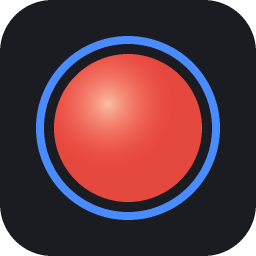
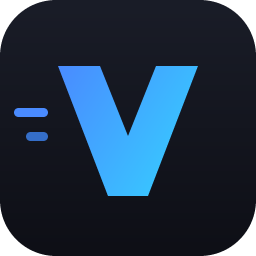
Rebrand RecScreen to Velocity Studio 1.0.0
New name, app ID, installer name, icon and title-bar logo; default
recordings folder is now Videos\Velocity Studio. Version reset to 1.0.0.

diff --git a/src/js/settings.js b/src/js/settings.js
@@ -129,13 +129,13 @@ export function openSettings() {
     return h('div', { class: 'hk-row' }, h('span', {}, label), btn, clear);
   });
   const hotkeys = h('div', { class: 'pane' }, ...hkRows,
-    h('p', { class: 'note' }, 'Hotkeys work globally, even while RecScreen is minimized or another app has focus.'));
+    h('p', { class: 'note' }, 'Hotkeys work globally, even while Velocity Studio is minimized or another app has focus.'));
 
   /* ---- General ---- */
   const general = h('div', { class: 'pane' },
-    checkbox('Hide RecScreen from screen captures', d.hideFromCapture, (v) => { d.hideFromCapture = v; }),
+    checkbox('Hide Velocity Studio from screen captures', d.hideFromCapture, (v) => { d.hideFromCapture = v; }),
     h('p', { class: 'note' }, 'Excludes this window from display/window capture so it never shows up in your recordings (no infinite-mirror effect).'),
-    checkbox('Minimize RecScreen when recording starts', d.minimizeOnRecord, (v) => { d.minimizeOnRecord = v; }),
+    checkbox('Minimize Velocity Studio when recording starts', d.minimizeOnRecord, (v) => { d.minimizeOnRecord = v; }),
     h('p', { class: 'note' }, 'Use the Start/Stop hotkey to control recording while minimized.'),
     h('div', { class: 'row' }, h('button', {
       class: 'btn',
@@ -172,7 +172,7 @@ export function openSettings() {
   const rememberCb = checkbox('Remember stream keys on this PC', true, (v) => { remember = v; });
   window.api.secretAvailable().then((ok) => {
     secretOk = ok;
-    if (!ok) { rememberCb.input.checked = false; rememberCb.input.disabled = true; remember = false; secretNote.textContent = 'Encrypted storage is not available on this system, so your key is kept in memory only and must be re-entered after restarting RecScreen.'; }
+    if (!ok) { rememberCb.input.checked = false; rememberCb.input.disabled = true; remember = false; secretNote.textContent = 'Encrypted storage is not available on this system, so your key is kept in memory only and must be re-entered after restarting Velocity Studio.'; }
   });
   const sBitrate = numberInput(sc.bitrate, { min: 500, max: 60000, step: 250, onChange: (v) => { sc.bitrate = v || 6000; } });
   const sAudio = select([96, 128, 160, 192, 256].map((v) => ({ value: v, label: `${v} kbps` })), sc.audioBitrate, (v) => { sc.audioBitrate = Number(v); });
@@ -277,13 +277,13 @@ export function openShortcuts() {
 
 export function openAbout() {
   modal({
-    title: 'About RecScreen',
+    title: 'About Velocity Studio',
     width: 420,
     body: h('div', { class: 'about' },
-      h('div', { class: 'about-logo', html: icon('record', 40) }),
-      h('h2', {}, 'RecScreen'),
+      h('div', { class: 'about-logo' }, h('img', { src: 'icon.png', alt: '' })),
+      h('h2', {}, 'Velocity Studio'),
       h('p', {}, `Version ${appInfo ? appInfo.version : '1.0.0'}`),
-      h('p', { class: 'note' }, 'An OBS-style screen recorder: scenes, multiple sources, audio mixer, hardware-accelerated H.264, global hotkeys.')),
+      h('p', { class: 'note' }, 'An OBS-style screen recorder and live streamer: scenes, multiple sources, audio mixer, NVENC hardware encoding, RTMP streaming, global hotkeys.')),
     buttons: [{ label: 'Close', primary: true, value: 'ok' }],
   });
 }

diff --git a/main.js b/main.js
@@ -36,8 +36,8 @@ function ffmpegPath() {
 }
 
 function defaultRecDir() {
-  try { return path.join(app.getPath('videos'), 'RecScreen'); }
-  catch { return path.join(os.homedir(), 'Videos', 'RecScreen'); }
+  try { return path.join(app.getPath('videos'), 'Velocity Studio'); }
+  catch { return path.join(os.homedir(), 'Videos', 'Velocity Studio'); }
 }
 
 function createWindow() {
@@ -48,7 +48,7 @@ function createWindow() {
     minHeight: 680,
     show: false,
     backgroundColor: '#16171a',
-    title: 'RecScreen',
+    title: 'Velocity Studio',
     icon: path.join(__dirname, 'src', 'icon.png'),
     titleBarStyle: 'hidden',
     titleBarOverlay: { color: '#1b1c20', symbolColor: '#c9ccd3', height: 36 },
@@ -97,7 +97,7 @@ ipcMain.handle('app:info', () => ({
   defaultRecDir: defaultRecDir(),
   ffmpeg: !!ffmpegPath(),
   selftest: SELFTEST,
-  outDir: SELFTEST && process.env.RECSCREEN_OUT ? process.env.RECSCREEN_OUT : null,
+  outDir: SELFTEST && process.env.VELOCITY_OUT ? process.env.VELOCITY_OUT : null,
   cores: os.cpus().length,
   platform: process.platform,
 }));

diff --git a/src/index.html b/src/index.html
@@ -4,12 +4,12 @@
   <meta charset="utf-8">
   <meta http-equiv="Content-Security-Policy" content="default-src 'self'; img-src 'self' data: blob:; media-src 'self' blob: mediastream:; style-src 'self' 'unsafe-inline'; script-src 'self' blob:; worker-src 'self' blob:; connect-src 'self' blob:">
   <meta name="viewport" content="width=device-width, initial-scale=1">
-  <title>RecScreen</title>
+  <title>Velocity Studio</title>
   <link rel="stylesheet" href="styles.css">
 </head>
 <body>
   <header id="titlebar">
-    <div class="brand"><span class="brand-dot"></span><span class="brand-name">RecScreen</span></div>
+    <div class="brand"><img class="brand-icon" src="icon.png" alt=""><span class="brand-name">Velocity Studio</span></div>
     <nav id="menubar" aria-label="Main menu"></nav>
     <div class="title-center" id="title-center"></div>
   </header>

diff --git a/src/styles.css b/src/styles.css
@@ -47,7 +47,8 @@ button { cursor: pointer; }
   -webkit-app-region: drag;
 }
 #titlebar .brand { display: flex; align-items: center; gap: 8px; margin-right: 8px; font-weight: 600; letter-spacing: .2px; }
-.brand-dot { width: 12px; height: 12px; border-radius: 50%; background: radial-gradient(circle at 35% 30%, #ff7a70, var(--red) 55%, #9b241d); box-shadow: 0 0 0 3px rgba(229, 72, 63, .18); }
+.brand-icon { width: 20px; height: 20px; border-radius: 5px; display: block; }
+.about-logo img { width: 72px; height: 72px; border-radius: 16px; }
 #menubar { display: flex; gap: 2px; -webkit-app-region: no-drag; }
 .menu-btn { background: none; border: 0; padding: 5px 10px; border-radius: 5px; color: var(--text); }
 .menu-btn:hover, .menu-btn.open { background: var(--panel-3); }

diff --git a/src/js/commands.js b/src/js/commands.js
@@ -67,7 +67,7 @@ export async function toggleStreaming() {
 
 export async function quitApp() {
   if (recorder.rec.phase === 'processing') {
-    toast('Finishing your recording — RecScreen will be ready to close in a moment.', { kind: 'warn' });
+    toast('Finishing your recording — Velocity Studio will be ready to close in a moment.', { kind: 'warn' });
     return;
   }
   if (stream.isActive()) await stream.stop();

diff --git a/src/js/ui.js b/src/js/ui.js
@@ -285,7 +285,7 @@ function setupMenus() {
     ],
     Help: () => [
       { label: 'Keyboard Shortcuts', onClick: openShortcuts },
-      { label: 'About RecScreen', onClick: openAbout },
+      { label: 'About Velocity Studio', onClick: openAbout },
     ],
   };
   const bar = $('#menubar');

diff --git a/src/js/store.js b/src/js/store.js
@@ -2,7 +2,7 @@ import { uid, debounce, deepClone } from './util.js';
 
 export const BASE_W = 1920;
 export const BASE_H = 1080;
-const KEY = 'recscreen.state.v1';
+const KEY = 'velocity-studio.state.v1';
 
 export const DEFAULT_SETTINGS = {
   recPath: '',

diff --git a/README.md b/README.md
@@ -1,8 +1,8 @@
-# RecScreen
+# Velocity Studio
 
-An OBS-style screen recorder for Windows, built on Electron.
+An OBS-style screen recorder and live streamer for Windows, built on Electron.
 
-**Run:** double-click `RecScreen.bat` (or `npm start`).
+**Run:** double-click `VelocityStudio.bat` (or `npm start`).
 
 ## Features
 - **Scenes & sources** - display, window, webcam, image, text and colour sources; drag / resize / crop (Alt+drag) / snap in the live preview; per-source opacity, flip, lock, visibility, z-order, undo on delete.
@@ -14,10 +14,10 @@ An OBS-style screen recorder for Windows, built on Electron.
 - **Hides itself** from captures (no infinite mirror), optional minimise-on-record.
 - Keeps recording while minimised or covered by other windows.
 
-Recordings go to `Videos\RecScreen` by default (Settings -> Output).
+Recordings go to `Videos\Velocity Studio` by default (Settings -> Output).
 
 ## Building the installer
-Builds a Windows NSIS installer (`dist\RecScreen Setup <version>.exe`) from the current working folder.
+Builds a Windows NSIS installer (`dist\Velocity Studio Setup <version>.exe`) from the current working folder.
 
 1. Install dependencies (first time only): `npm install`
 2. Bump the version - the installer name and version come from `package.json`, and the build never changes it:
@@ -33,7 +33,7 @@ Builds a Windows NSIS installer (`dist\RecScreen Setup <version>.exe`) from the 
 The installer is a one-click, per-user install (no admin rights needed) and is **unsigned**, so Windows SmartScreen may warn about an unknown publisher. `dist/` is gitignored and previous installers are not cleaned up, so delete old ones by hand if you don't want them.
 
 ## License
-[MIT](LICENSE). RecScreen bundles Electron (MIT) and an ffmpeg build via `ffmpeg-static`; ffmpeg is licensed separately (GPL for the bundled build) - see the ffmpeg project's licensing terms if you redistribute the installer.
+[MIT](LICENSE). Velocity Studio bundles Electron (MIT) and an ffmpeg build via `ffmpeg-static`; ffmpeg is licensed separately (GPL for the bundled build) - see the ffmpeg project's licensing terms if you redistribute the installer.
 
 ## Notes
 - `npm run selftest` records a 5 s clip and exits (used to verify the capture pipeline).
